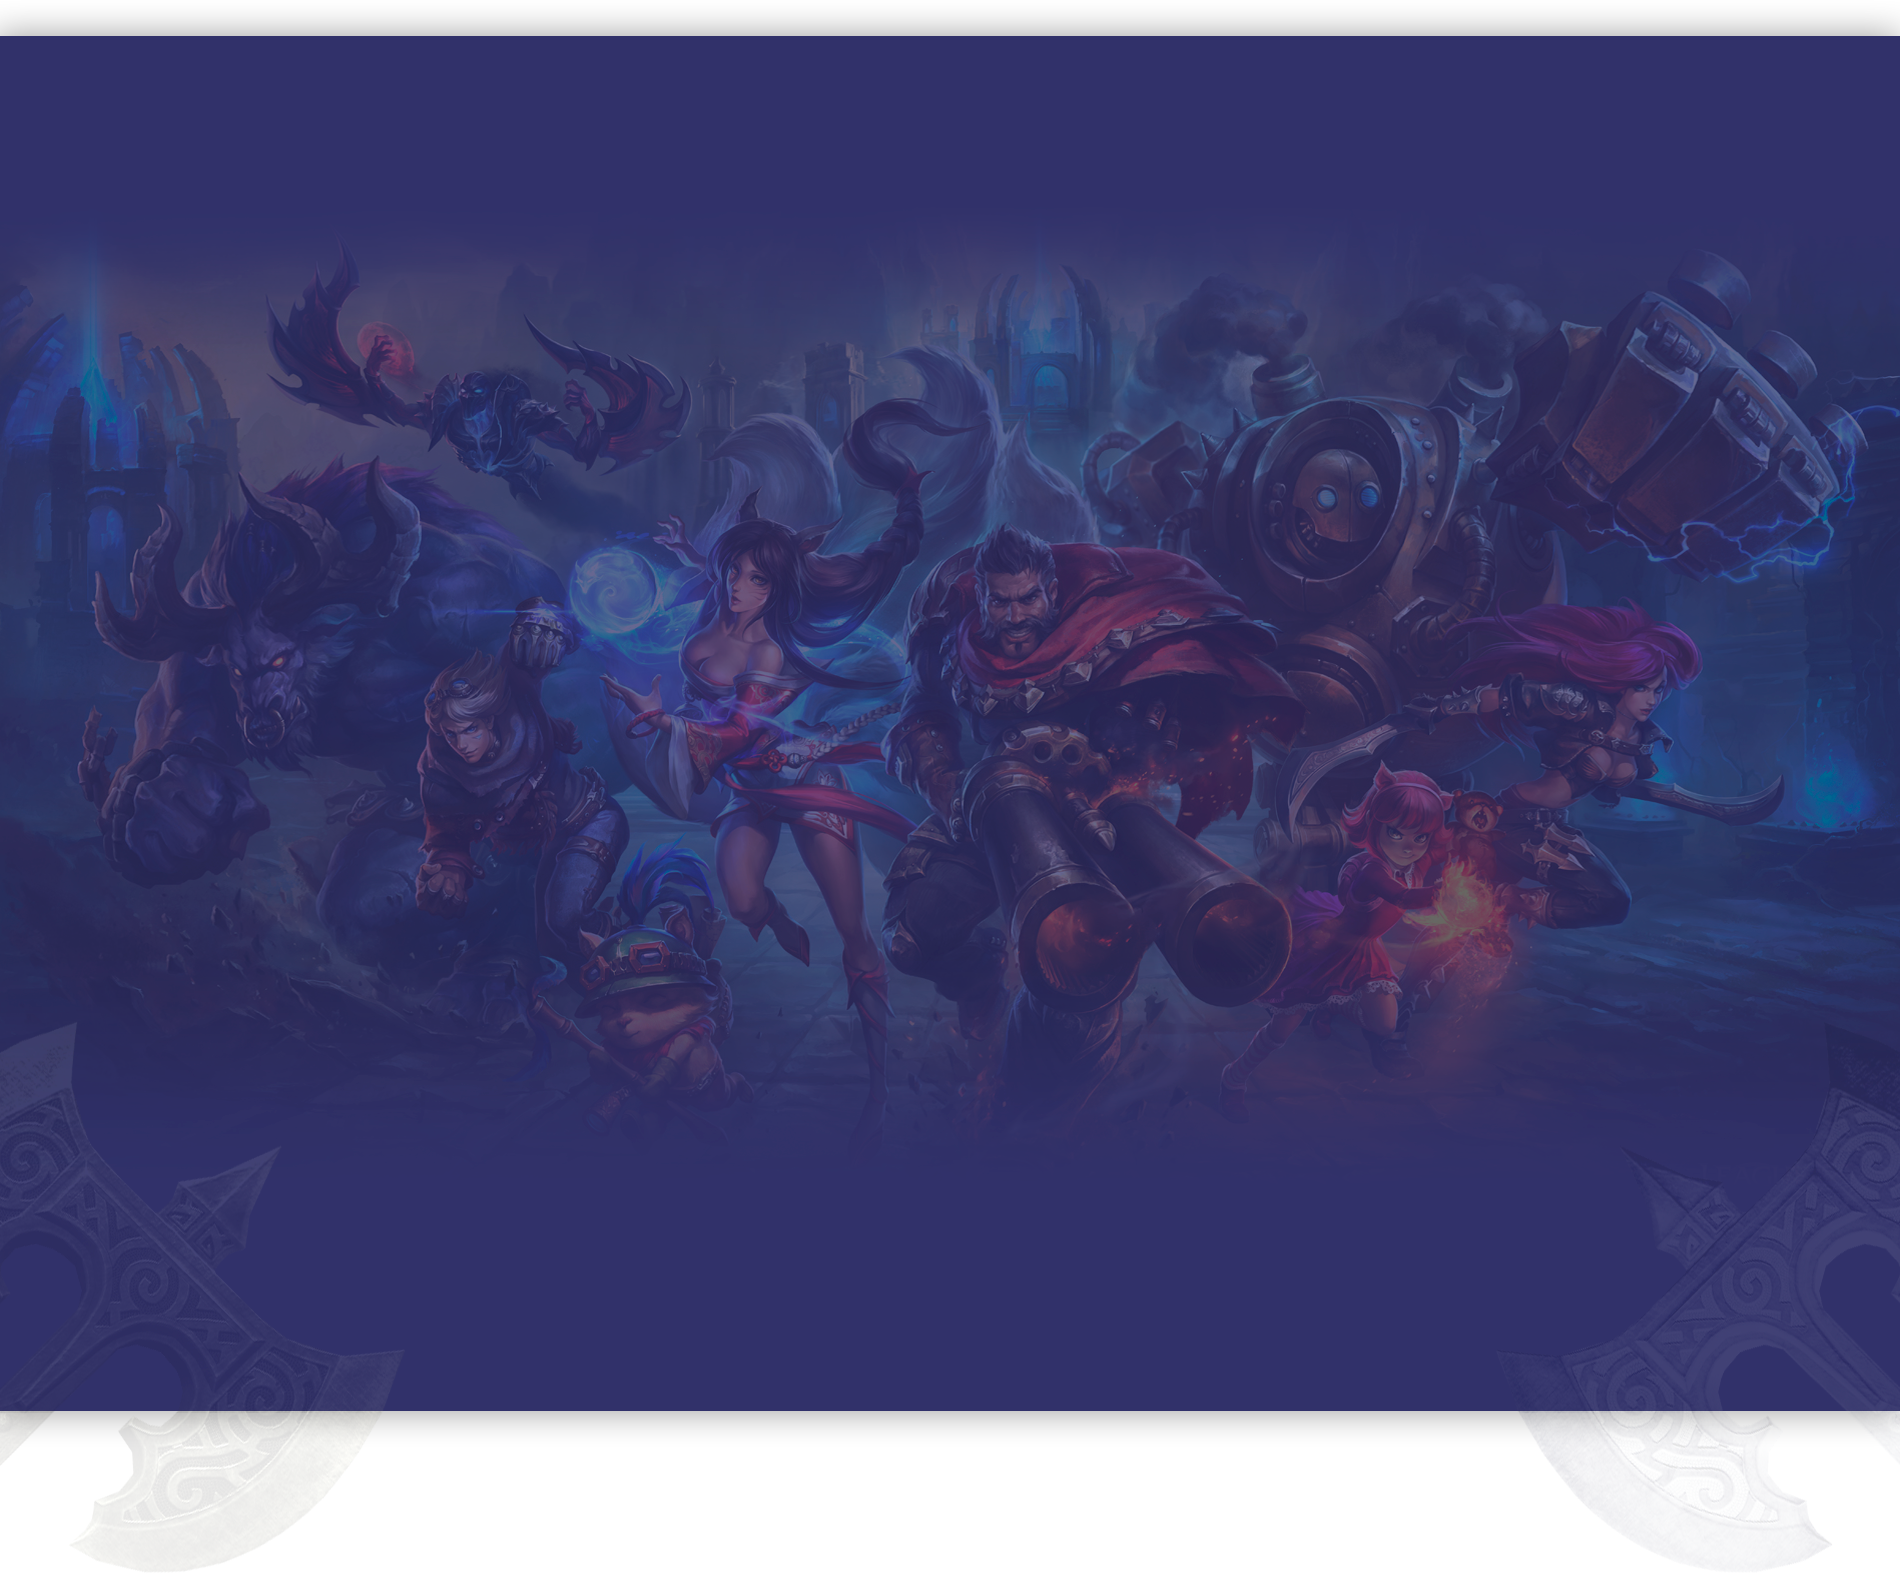
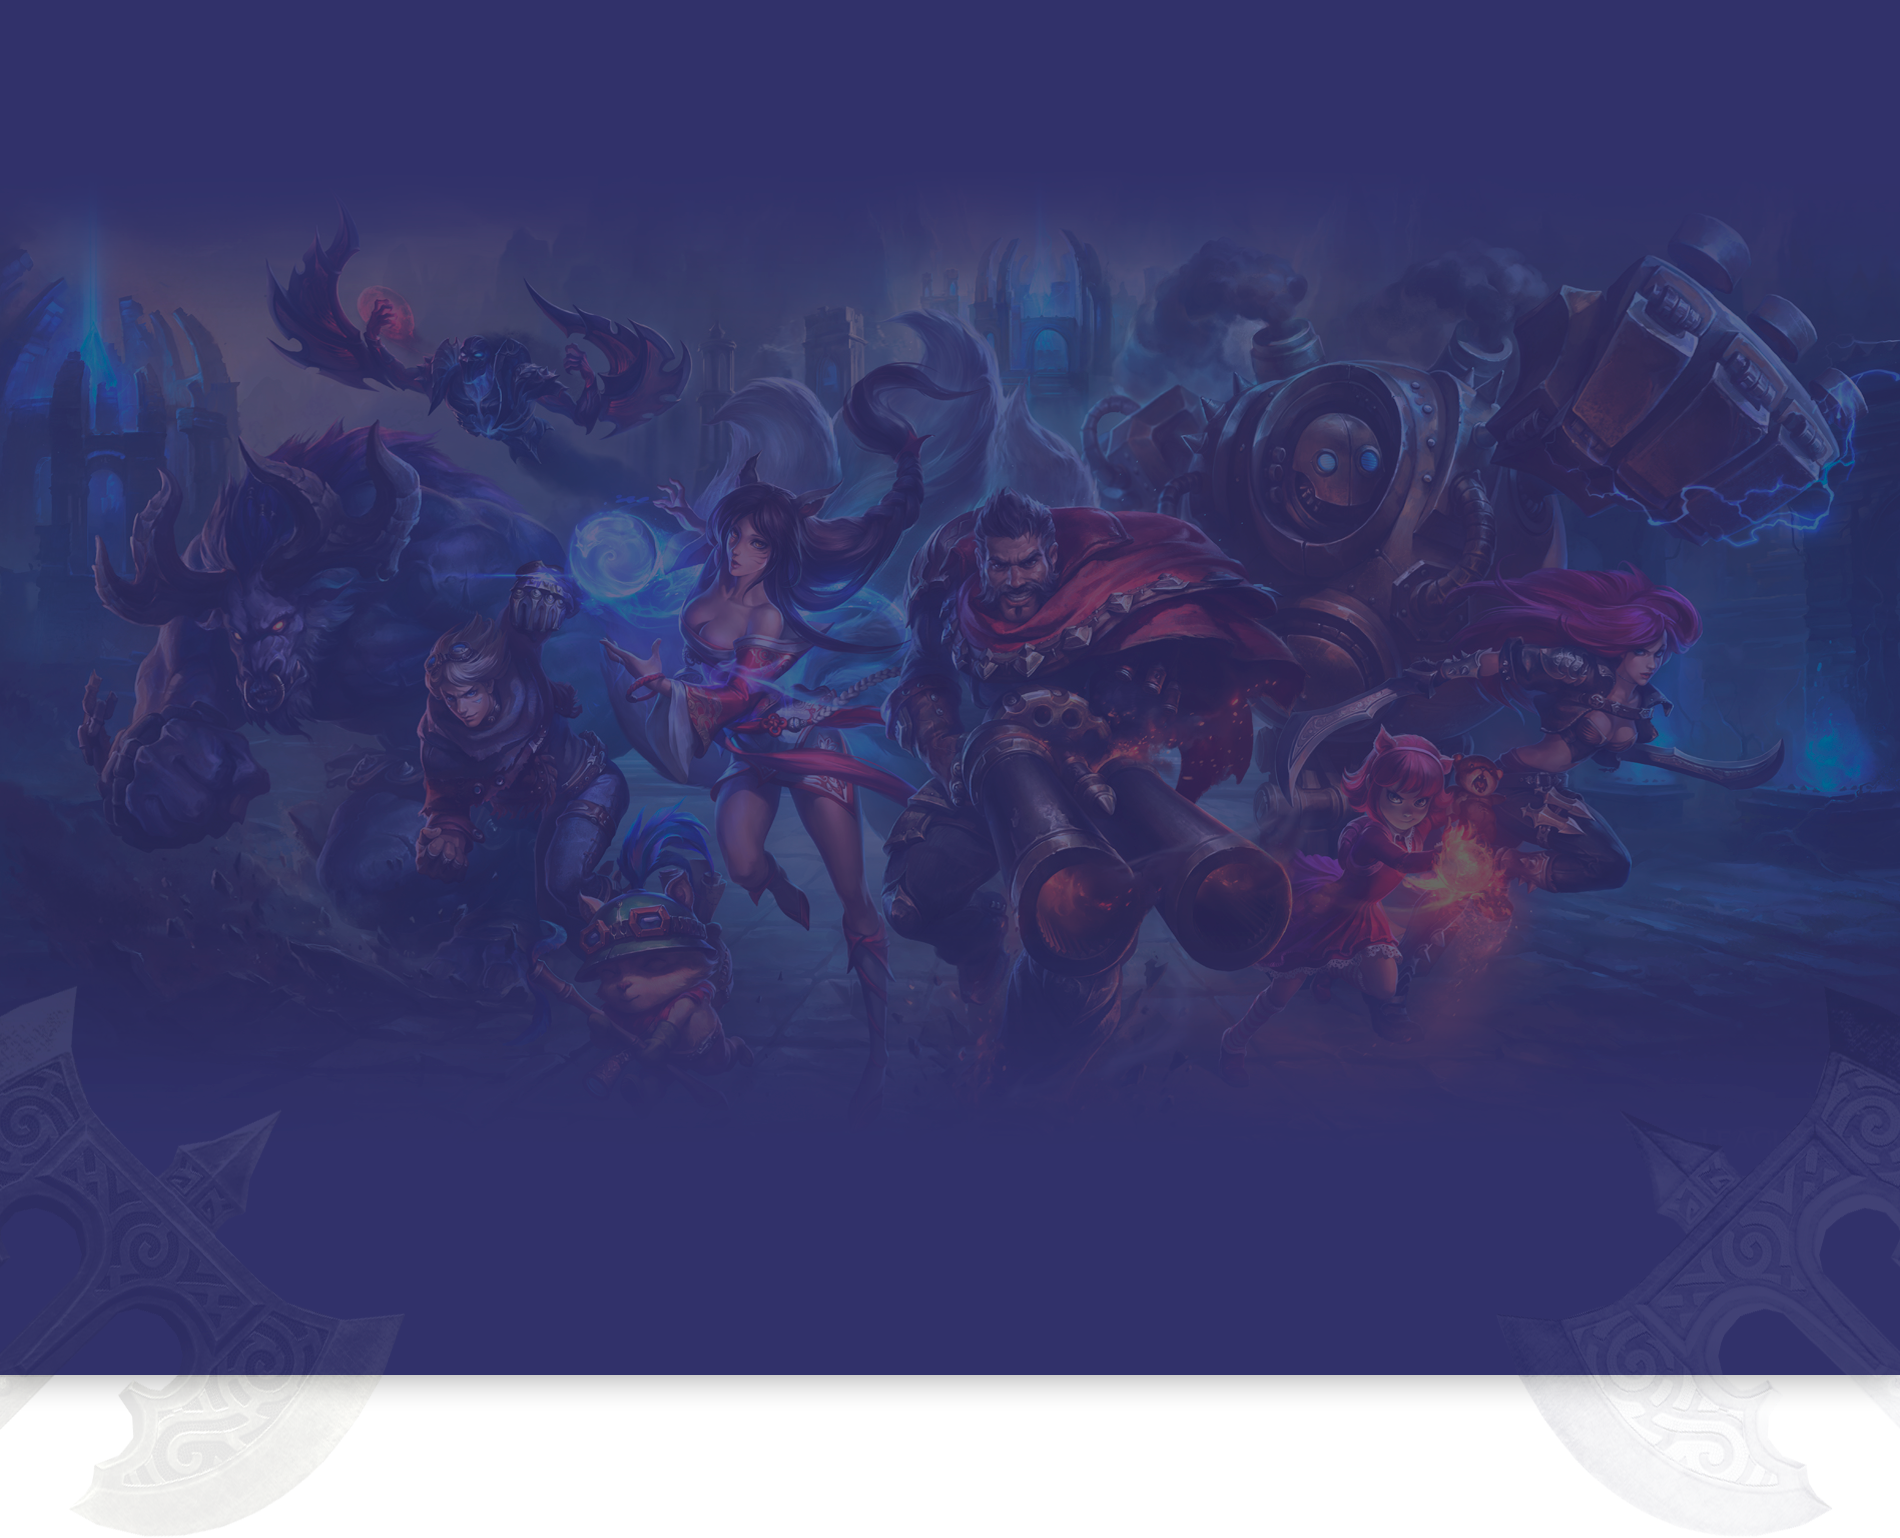
доделала десктопную версию секции 3 и начала делать таблетку

diff --git a/css/style.css b/css/style.css
@@ -607,13 +607,17 @@ label, a {
     position: relative;
     background-color: #f2f2fa;
 }
-
+.fon_features{
+    min-height: 1760px;
+    width: 100%;
+    position: relative;
+}
 .features h2 {
     font-size: 48px;
     font-weight: 600;
     color: #141558;
     position: absolute;
-    top:  150px;
+    top:  170px;
     left: 39%;
 }
 .features span{
@@ -621,13 +625,11 @@ label, a {
 }
 .wrap_features {
     position: absolute;
-    bottom: 600px;
-    z-index: 66;
-
+   z-index: 66;
+    bottom: 700px;
 }
 .features_services{
-    margin-right: 147px;
-    margin-left: 32px;
+    margin-left: 116px;
     margin-bottom: 30px;
     box-sizing: border-box;
     height: 305px;
@@ -649,10 +651,28 @@ label, a {
 }
 .content{
     color: #fff;
-    font-size: 21px;
-    bottom: 354px;
+    font-size: 22px;
+    bottom: 360px;
     position: absolute;
+    right: 70px;
+    left: 70px;
+
 }
+@media screen and (min-width: 1024px) and (max-width: 1340px){
+    .wrap_features{
+        bottom: 718px;
+    }
+    .features_services{
+        margin-left: 40px;
+    }
+}
+@media screen and (min-width: 768px) and (max-width: 1040px){
+    .features h2{
+        top: 90px;
+    }
+    
+}
+
 /* footer*/
 footer {
     left: 0;

diff --git a/index.html b/index.html
@@ -123,7 +123,7 @@
     </div>
 </section>
 <section class="features">
-    <img class="fon" src="img/bg2.png">
+    <img class="fon_features" src="img/bg2.png">
     <div class="container">
         <h2>
             <span>OUR</span> FEATURES
